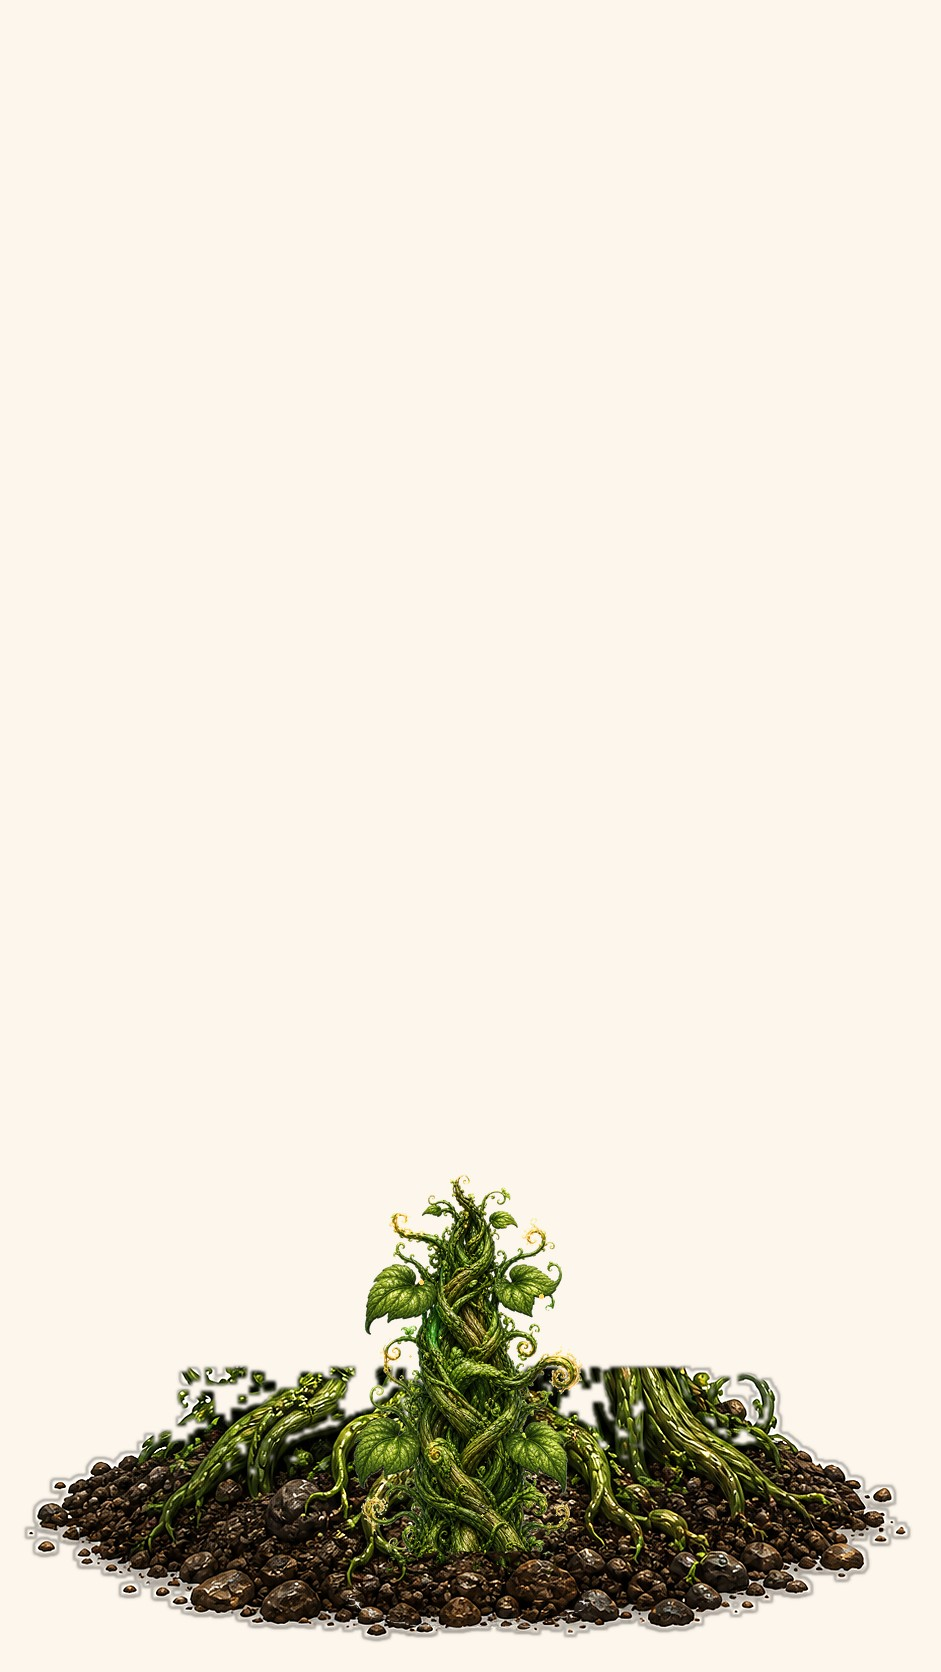
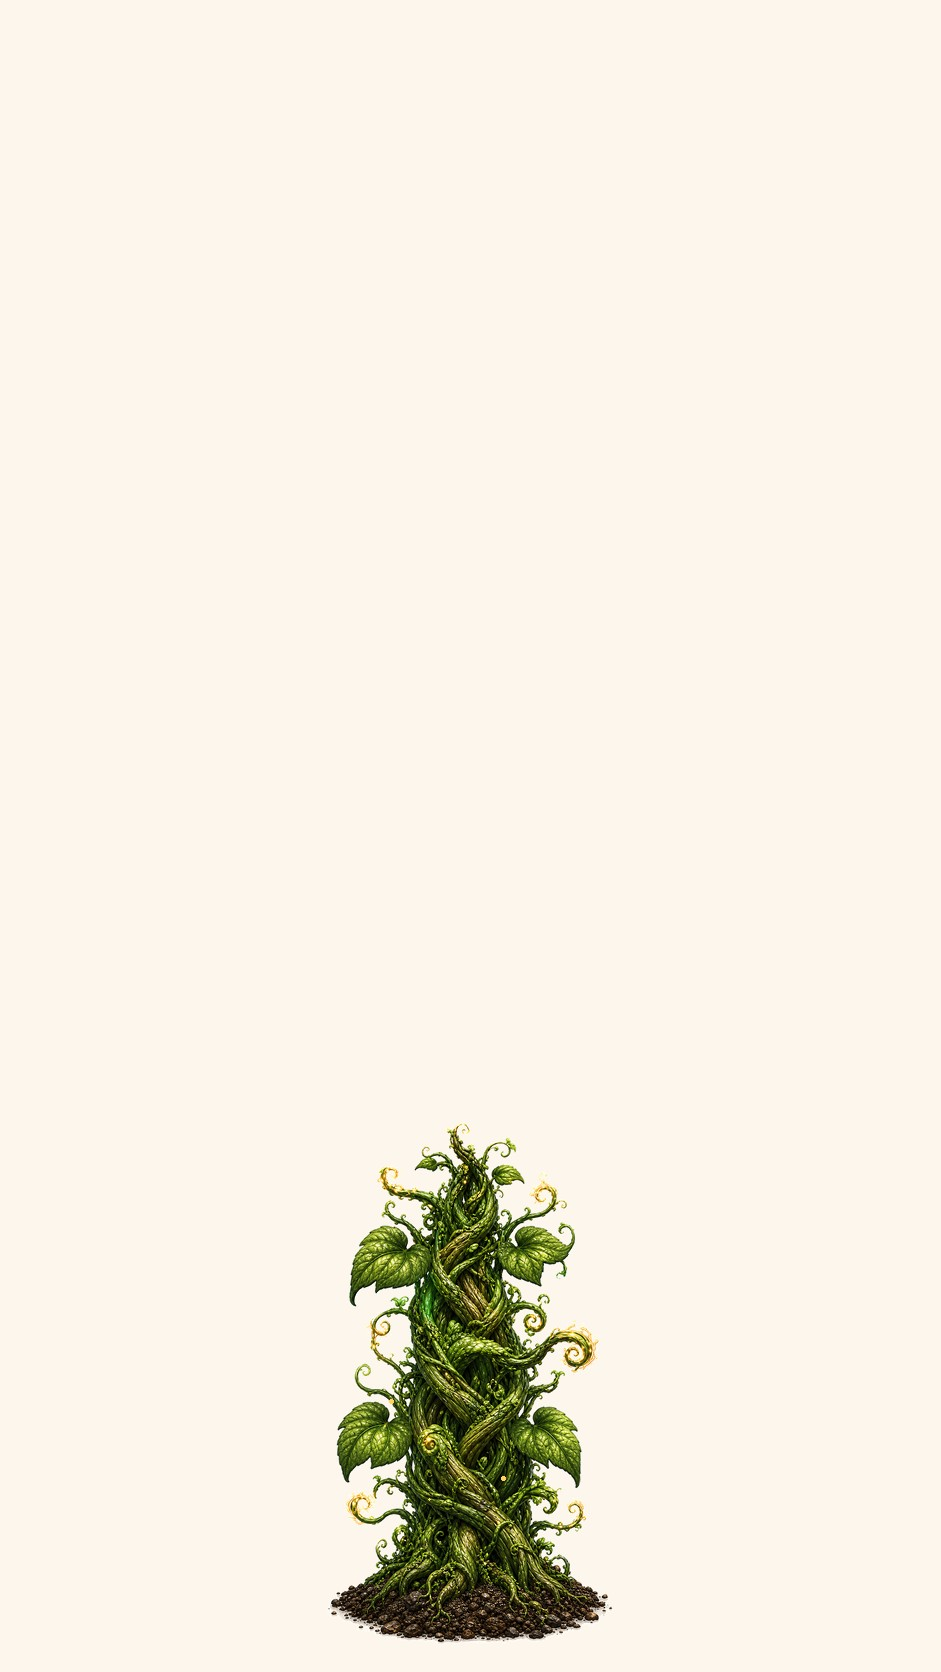
修复魔树动画横向切口

Changed region(s): [[0.0308, 0.6531, 0.9862, 0.9952]]

diff --git a/picture/魔树动画素材/素材说明.md b/picture/魔树动画素材/素材说明.md
@@ -1,6 +1,6 @@
 # 魔树动画素材说明
 
-本目录是魔树生长动画的高清单锚点 JPEG q90 版素材，用于替换上一批低清连贯帧和 28 次独立生成的 PNG。
+本目录是魔树生长动画的高清整体单层 JPEG q90 版素材，用于替换上一批低清连贯帧、28 次独立生成的 PNG，以及会产生横向切口的土树分层版本。
 
 ## 文件
 
@@ -21,12 +21,13 @@
 
 ## 本版修正
 
-上一批高清 PNG 是逐帧独立生成，单帧更清晰，但不是同一株植物连续生长，导致换株、土堆漂移、背景漂移和体积过大。本版使用用户认可的高清终帧作为唯一锚点，生成同株等比生长序列，并统一输出为 JPEG q90：
+上一批高清 PNG 是逐帧独立生成，单帧更清晰，但不是同一株植物连续生长，导致换株、土堆漂移、背景漂移和体积过大。上一版高清单锚点素材把土堆和植株拆成两层，分层边界造成明显横向切口。本版使用用户认可的高清终帧作为唯一锚点，把土堆、根须和植株作为完整前景整体等比缩放，并统一输出为 JPEG q90：
 
 - 废弃 50MB PNG 独立帧
 - 保留同一株魔树的视觉身份
-- 土堆固定在同一位置
-- 植株使用等比缩放生长，不做纵向拉伸
+- 不再拆分土层和树层，避免土堆上方出现一刀切
+- 土堆随整棵树等比缩放，这是为了彻底消除分层边界
+- 整体使用等比缩放生长，不做纵向拉伸
 - 不再使用切片平铺、镜像、拉伸树干等路线
 - 统一生成预览图、GIF 和验收报告
 
@@ -40,6 +41,6 @@
 
 ## 注意
 
-这版优先解决“高清质感、同株视觉身份、无拼接、土堆稳定”。它不是逐帧 AI 真实生长序列；因为植株面积逐帧变大，`validation_report.json` 里的平均帧差会超过旧阈值。该阈值只适合评估真实相邻帧序列，不适合评估这版高清单锚点等比生长方案。
+这版优先解决“高清质感、同株视觉身份、无拼接、无横向切口”。它不是逐帧 AI 真实生长序列；因为整棵树和土堆面积逐帧变大，`validation_report.json` 里的平均帧差和土堆漂移会超过旧阈值。该阈值只适合评估真实相邻帧序列，不适合评估这版高清整体单层等比生长方案。
 
 如果之后继续追求更真实的“新叶逐片长出、藤条逐步变粗”，必须使用“一张大图画完全部帧再拆”或“img2img 链式低重绘”方式生成，不能再逐帧独立生成。

diff --git a/docs/CODE_MAP.md b/docs/CODE_MAP.md
@@ -1,7 +1,7 @@
 # 代码地图（CODE MAP）
 
 > ⚠ 本文件由 `scripts/update_code_map.sh` 自动生成，请勿手工编辑。
-> 生成时间：2026-07-30 15:12:11　对应提交：d12ec51 之后的工作区状态
+> 生成时间：2026-07-30 15:16:38　对应提交：f500d5d 之后的工作区状态
 
 ## 一、索引状态
 
